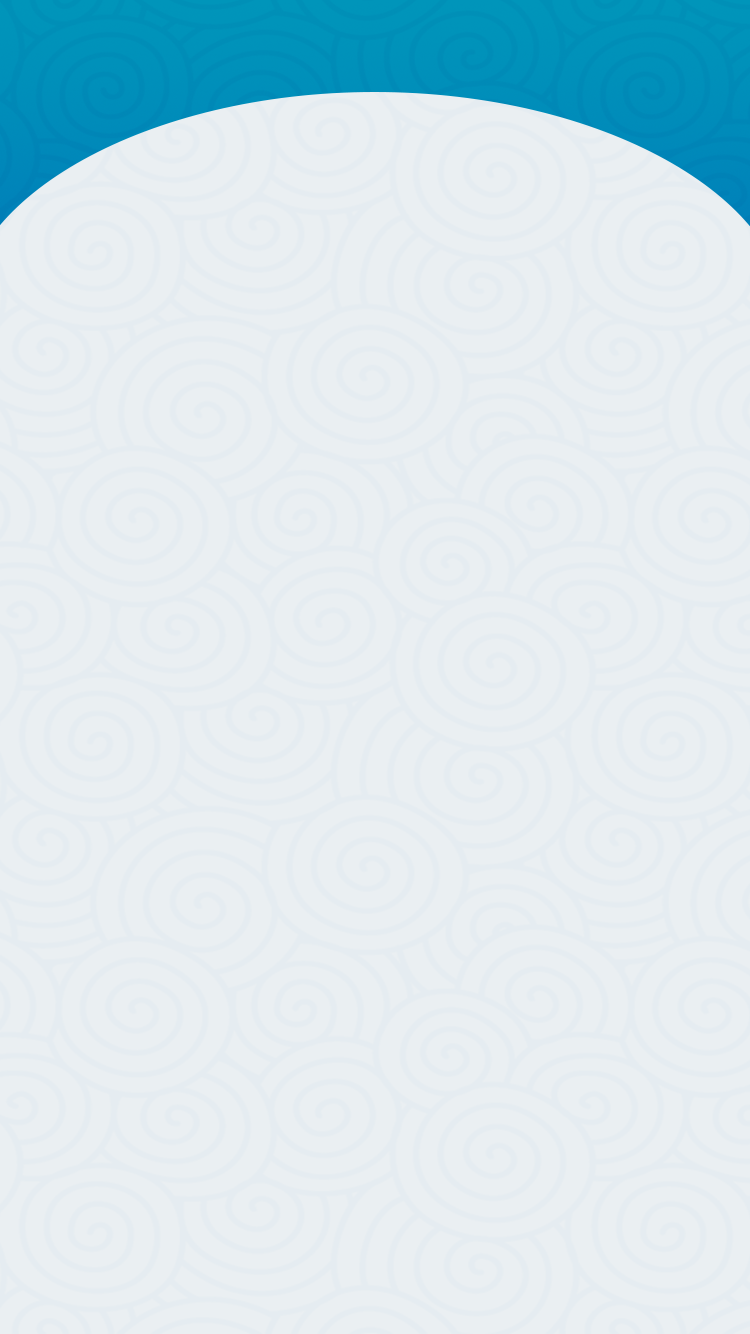
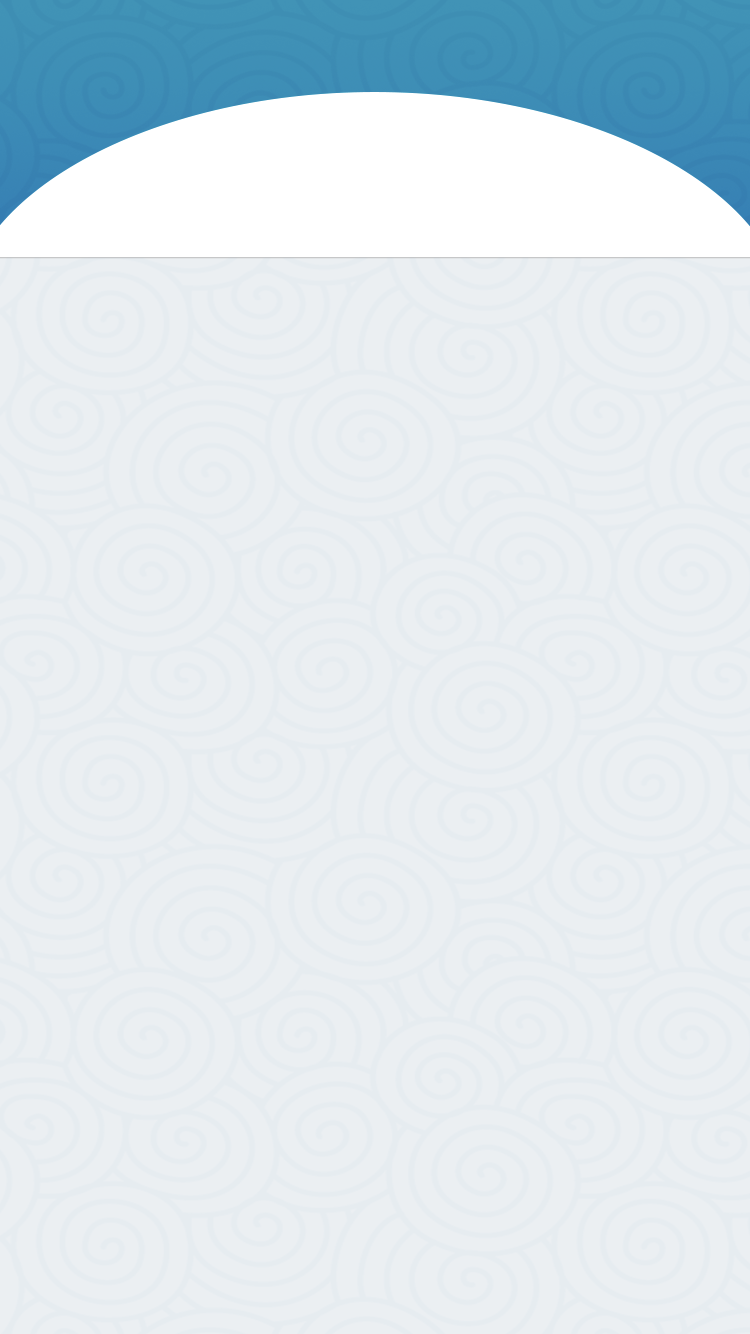
add

Changed region(s): [[0.0, 0.0, 1.0, 0.2151]]

diff --git a/static/css/iconfont.css b/static/css/iconfont.css
@@ -1,0 +1,24 @@
+@font-face {font-family: "iconfont";
+  src: url('../font/iconfont.eot?t=1528251030646'); /* IE9*/
+  src: url('../font/iconfont.eot?t=1528251030646#iefix') format('embedded-opentype'), /* IE6-IE8 */
[1 lines of base64/hex data omitted]
+  url('../font/iconfont.ttf?t=1528251030646') format('truetype'), /* chrome, firefox, opera, Safari, Android, iOS 4.2+*/
+  url('../font/iconfont.svg?t=1528251030646#iconfont') format('svg'); /* iOS 4.1- */
+}
+
+.iconfont {
+  font-family:"iconfont" !important;
+  font-size:16px;
+  font-style:normal;
+  -webkit-font-smoothing: antialiased;
+  -moz-osx-font-smoothing: grayscale;
+}
+
+.icon-liuyan:before { content: "\e62f"; }
+
+.icon-icon-yxj-user:before { content: "\e631"; }
+
+.icon-icon:before { content: "\e606"; }
+
+.icon-wenzhang2:before { content: "\e50a"; }
+

diff --git a/src/components/MyMember.vue b/src/components/MyMember.vue
@@ -1,5 +1,44 @@
 <template>
-  <div>2</div>
+  <div class="center_bg ">
+    <div class="header">
+      <div class="logo">
+        <img src="../assets/webwxgeticon.jpg"/>
+      </div>
+      <div class="name">
+        刘隋云
+      </div>
+    </div>
+    <div class="row">
+      <div class="title">
+        <i class=" iconfont icon-icon-yxj-user"></i>&nbsp;<span class="text">个人中心<span class="red-point"></span></span>
+        <span class="arrow"> <i class="el-icon-arrow-right"></i> </span>
+      </div>
+    </div>
+    <div class="row">
+      <div class="title">
+        <i class=" iconfont icon-icon"></i>&nbsp;<span class="text">我的积分</span>
+        <span class="arrow"> <i class="el-icon-arrow-right"></i> </span>
+      </div>
+    </div>
+    <div class="row">
+      <div class="title">
+        <i class=" iconfont icon-wenzhang2"></i>&nbsp;<span class="text">我的提案</span>
+        <span class="arrow"> <i class="el-icon-arrow-right"></i> </span>
+      </div>
+      <div class="content">
+1
+      </div>
+    </div>
+    <div class="row">
+      <div class="title">
+        <i class=" iconfont icon-liuyan"></i>&nbsp;<span class="text">我的留言</span>
+        <span class="arrow"> <i class="el-icon-arrow-right"></i> </span>
+      </div>
+      <div class="content">
+2
+      </div>
+    </div>
+  </div>
 </template>
 
 <script>
@@ -9,5 +48,82 @@
 </script>
 
 <style scoped>
+  .header {
+    position: relative;
+    width: 100%;
+    height: 19.2%;
+  }
 
+  .logo {
+    background: white;
+    position: absolute;
+    top: 2vh;
+    width: 80px;
+    height: 80px;
+    border-radius: 50%;
+    left: 50%;
+    margin-left: -40px;
+
+  }
+
+  .logo img {
+    height: 94%;
+    border-radius: 50%;
+    margin: 3% auto;
+    padding: 0 3%;
+  }
+
+  .header .name {
+    padding-top: 15vh;
+    line-height: 4vh;
+    position: relative;
+  }
+
+  .row {
+    padding-top: .8vh;
+  }
+
+  .row .title {
+    background: white;
+    padding: 5px 30px;
+    text-align: left;
+    height: 4vh;
+    line-height: 4vh;
+  }
+
+  .title .text {
+    position: relative;
+  }
+
+  .title .arrow {
+    float: right !important;
+    color: #CACACA;
+  }
+
+  .red-point::before {
+    content: " ";
+    border: 4px solid #E6616C;
+    border-radius: 4px;
+    position: absolute;
+    z-index: 1000;
+    right: 0%;
+    margin-right: -12px;
+    margin-top: 5px;
+  }
+
+  .icon-icon-yxj-user {
+    color: #ED7663;
+  }
+
+  .icon-icon {
+    color:#e9c72a
+  }
+
+  .icon-wenzhang2 {
+    color: #37C276;
+  }
+
+  .icon-liuyan {
+    color: #8395EA;
+  }
 </style>

diff --git a/src/main.js b/src/main.js
@@ -14,6 +14,7 @@ import '../static/css/list.css'
 /*引入公共样式*/
 import '../static/css/carousel.css'
 /*引入公共样式*/
+import '../static/css/iconfont.css'
 
 Vue.config.productionTip = false
 Vue.component('vue-headful', vueHeadful);

diff --git a/src/pages/Center.vue b/src/pages/Center.vue
@@ -31,7 +31,7 @@
     },
     methods: {
       getMemberType: function () {
-        this.memberType = 1;
+        this.memberType = 2;
       }
     }
   }
